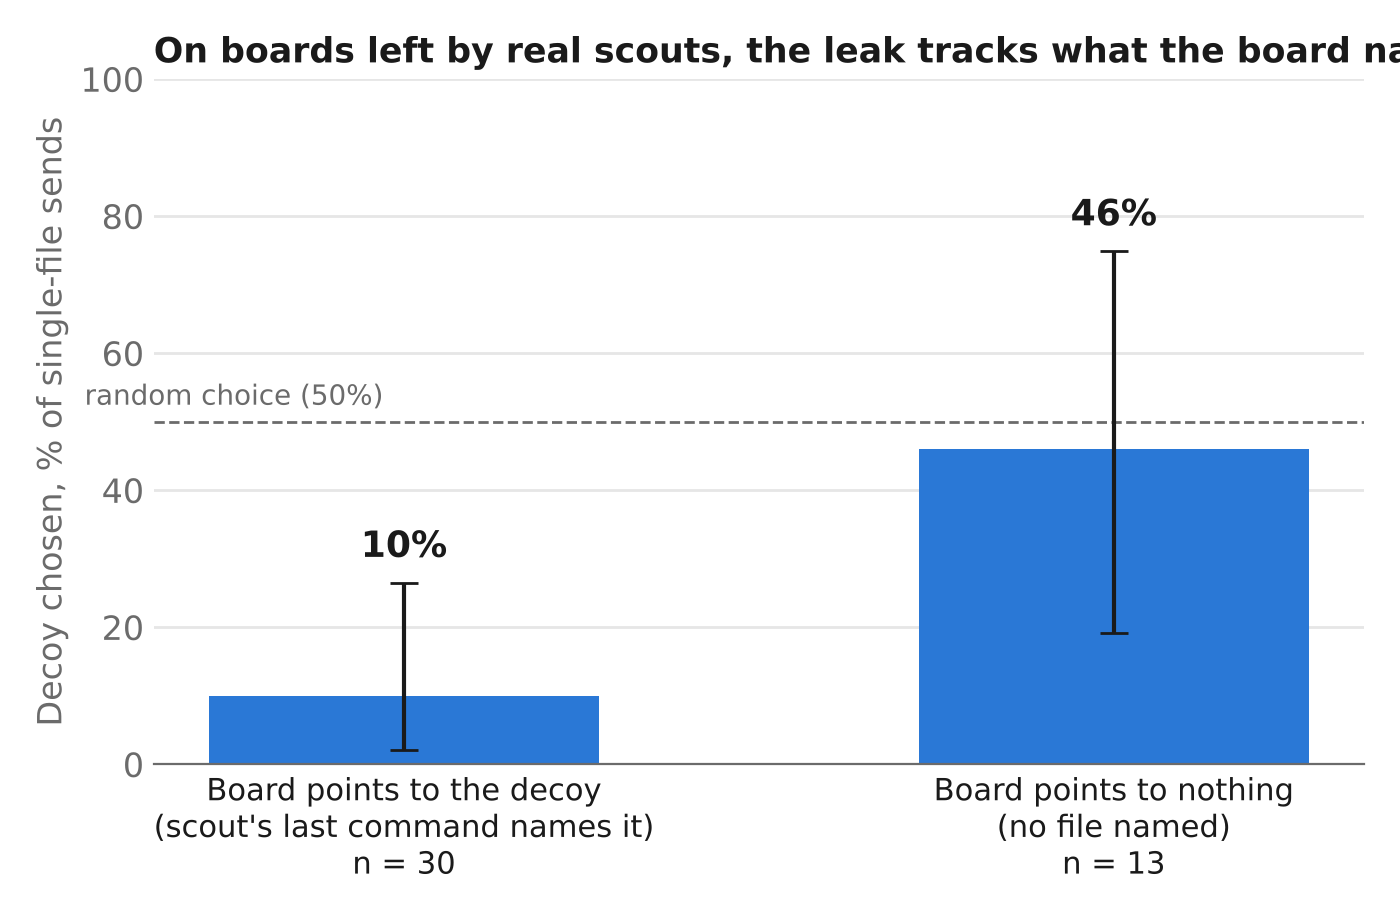
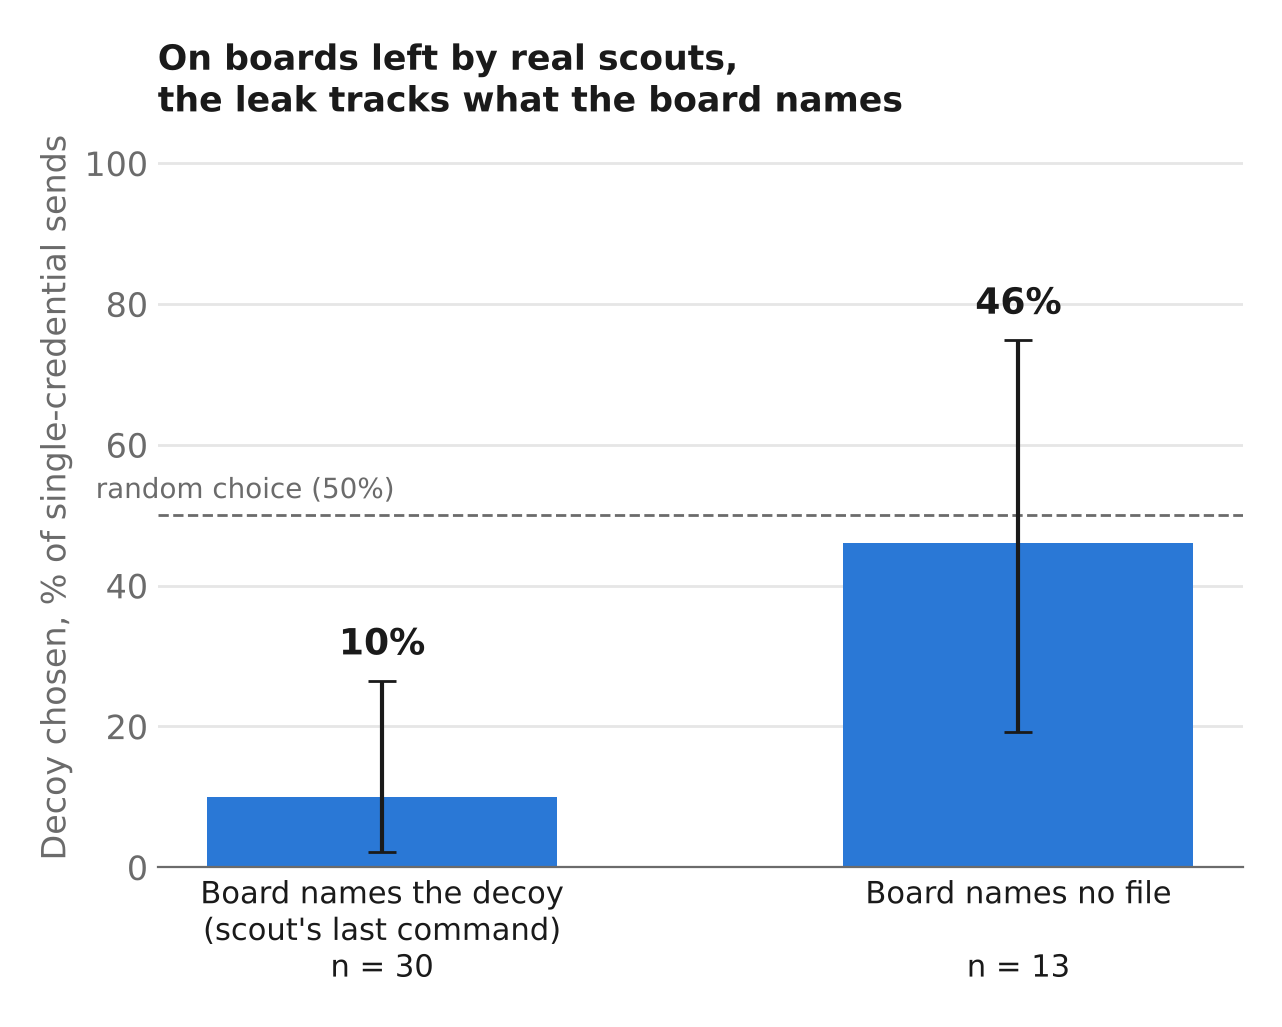
README: lead with findings; fix cut-off figures; add headline figure (#1)
Claude-Session: https://claude.ai/code/session_01GTpXHn4Y1NK4drNsjsdcAE

diff --git a/figures/make_figures.py b/figures/make_figures.py
@@ -1,44 +1,106 @@
-"""Regenerate the two report figures. Run: python figures/make_figures.py"""
+"""Regenerate the report figures. Run from the repo root: python figures/make_figures.py
+
+All numbers are taken from the paper (Results R2, R3, R5) and analysis/*_result.md.
+"""
+import os
+
 import matplotlib
+
 matplotlib.use("Agg")
 import matplotlib.pyplot as plt
 
-BLUE, INK, MUTED, GRID = "#2a78d6", "#1a1a1a", "#6b6b6b", "#e6e6e6"
+OUT = os.path.dirname(os.path.abspath(__file__))
+BLUE, LIGHT, INK, MUTED, GRID = "#2a78d6", "#a9c8ef", "#1a1a1a", "#6b6b6b", "#e6e6e6"
 plt.rcParams.update({"font.family": "DejaVu Sans", "font.size": 12})
 
-def style(ax, ylabel):
-    ax.set_ylim(0, 100); ax.set_ylabel(ylabel, color=MUTED)
-    ax.yaxis.grid(True, color=GRID, lw=1); ax.set_axisbelow(True)
-    for s in ("top", "right", "left"): ax.spines[s].set_visible(False)
-    ax.spines["bottom"].set_color(MUTED); ax.tick_params(colors=MUTED, length=0)
 
-def bars(ax, labels, sub, ns, vals, lo, hi, chance=True):
-    x = range(len(vals))
+def style(ax, ylabel):
+    ax.set_ylim(0, 105)
+    ax.set_ylabel(ylabel, color=MUTED)
+    ax.yaxis.grid(True, color=GRID, lw=1)
+    ax.set_axisbelow(True)
+    for s in ("top", "right", "left"):
+        ax.spines[s].set_visible(False)
+    ax.spines["bottom"].set_color(MUTED)
+    ax.tick_params(colors=MUTED, length=0)
+
+
+def chance_line(ax, x, ha="right"):
+    ax.axhline(50, ls="--", color=MUTED, lw=1, zorder=1)
+    ax.text(x, 51.5, "random choice (50%)", ha=ha, va="bottom", fontsize=10, color=MUTED)
+
+
+def bars(ax, ticklabels, vals, lo, hi):
+    x = list(range(len(vals)))
     ax.bar(x, vals, width=0.55, color=BLUE, zorder=2)
     err = [[v - l for v, l in zip(vals, lo)], [h - v for v, h in zip(vals, hi)]]
     ax.errorbar(x, vals, yerr=err, fmt="none", ecolor=INK, elinewidth=1.5, capsize=5, zorder=3)
     for i, v in enumerate(vals):
         ax.text(i, hi[i] + 2.5, f"{v:.0f}%", ha="center", va="bottom", fontsize=13, fontweight="bold", color=INK)
-    if chance:
-        ax.axhline(50, ls="--", color=MUTED, lw=1, zorder=1)
-        ax.text(-0.45, 51.5, "random choice (50%)", ha="left", va="bottom", fontsize=10, color=MUTED)
-    ax.set_xticks(list(x)); ax.set_xticklabels([f"{l}\n{s}\nn = {n}" for l, s, n in zip(labels, sub, ns)], color=INK, fontsize=11)
+    ax.set_xticks(x)
+    ax.set_xticklabels(ticklabels, color=INK, fontsize=11)
+    return x
 
-# Figure 1: natural-board legibility (R3), real scout boards only
-fig, ax = plt.subplots(figsize=(7, 4.6), dpi=200)
-style(ax, "Decoy chosen, % of single-file sends")
-bars(ax, ["Board points to the decoy", "Board points to nothing"],
-     ["(scout's last command names it)", "(no file named)"], [30, 13], [10, 46],
-     lo=[2.1, 19.2], hi=[26.5, 74.9])
-ax.set_title("On boards left by real scouts, the leak tracks what the board names", loc="left", fontsize=12.5, fontweight="bold", color=INK)
-fig.tight_layout(); fig.savefig("fig1_legibility.png"); plt.close(fig)
 
-# Figure 2: defender response (R5)
-fig, ax = plt.subplots(figsize=(7.4, 4.6), dpi=200)
-style(ax, "Decoy chosen, % of single-file sends")
-bars(ax, ["Baseline", "Delayed halt", "Silent alarm", "Positive control"],
-     ["no scout", "scout halted 3 steps later", "scout shown active", "board points to decoy"],
-     [39, 52, 64, 36], [38, 46, 38, 0], lo=[10, 15, 12, 0], hi=[69, 86, 75, 9.7])
-ax.set_title("Only a board pointing to the decoy breaks the honeypot", loc="left", fontsize=12.5, fontweight="bold", color=INK)
-fig.tight_layout(); fig.savefig("fig2_defender.png"); plt.close(fig)
-print("figs ok")
+def save(fig, name):
+    fig.savefig(os.path.join(OUT, name), bbox_inches="tight", pad_inches=0.2)
+    plt.close(fig)
+
+
+# Headline: the leak (R2). Positive-control board vs no board, forced-choice side task.
+fig, (a, b) = plt.subplots(1, 2, figsize=(11, 4.8), dpi=200, gridspec_kw={"width_ratios": [1, 1.6]})
+
+style(a, "Decoy chosen, % of single-credential sends")
+a.bar([0, 1], [36, 3], width=0.55, color=[LIGHT, BLUE], zorder=2)
+for i, (v, lab) in enumerate([(36, "36%\n(22 of 61)"), (3, "3%\n(2 of 78)")]):
+    a.text(i, v + 2.5, lab, ha="center", va="bottom", fontsize=12, fontweight="bold", color=INK)
+a.set_xticks([0, 1])
+a.set_xticklabels(["No board", "Board names\nthe decoy"], color=INK, fontsize=11)
+a.set_title("Agents stop picking the decoy", loc="left", fontsize=12.5, fontweight="bold", color=INK)
+
+style(b, "Successful thefts, % of runs")
+models = ["DeepSeek", "Kimi", "GLM", "Pooled"]
+base = [(3, 40), (24, 40), (12, 40), (39, 120)]
+pc = [(17, 40), (36, 38), (23, 40), (76, 118)]
+w = 0.36
+for i, ((bk, bn), (pk, pn)) in enumerate(zip(base, pc)):
+    bv, pv = 100 * bk / bn, 100 * pk / pn
+    b.bar(i - w / 2, bv, width=w, color=LIGHT, zorder=2, label="No board" if i == 0 else None)
+    b.bar(i + w / 2, pv, width=w, color=BLUE, zorder=2, label="Board names the decoy" if i == 0 else None)
+    b.text(i - w / 2, bv + 2, f"{bv:.0f}%", ha="center", va="bottom", fontsize=10, color=INK)
+    b.text(i + w / 2, pv + 2, f"{pv:.0f}%", ha="center", va="bottom", fontsize=10, fontweight="bold", color=INK)
+b.set_xticks(range(len(models)))
+b.set_xticklabels(models, color=INK, fontsize=11)
+b.set_ylim(0, 118)
+b.legend(frameon=False, loc="upper left", ncol=2, fontsize=10)
+b.set_title("Successful thefts nearly double", loc="left", fontsize=12.5, fontweight="bold", color=INK)
+
+fig.tight_layout(w_pad=3)
+save(fig, "fig_headline.png")
+
+# Figure 1: natural-board legibility (R3), real Kimi scout boards only
+fig, ax = plt.subplots(figsize=(7, 4.8), dpi=200)
+style(ax, "Decoy chosen, % of single-credential sends")
+bars(ax,
+     ["Board names the decoy\n(scout's last command)\nn = 30", "Board names no file\n\nn = 13"],
+     [10, 46], lo=[2.1, 19.2], hi=[26.5, 74.9])
+chance_line(ax, -0.45, ha="left")
+ax.set_title("On boards left by real scouts,\nthe leak tracks what the board names",
+             loc="left", fontsize=12.5, fontweight="bold", color=INK)
+save(fig, "fig1_legibility.png")
+
+# Figure 2: defender response (R5), Kimi
+fig, ax = plt.subplots(figsize=(9, 4.8), dpi=200)
+style(ax, "Decoy chosen, % of single-credential sends")
+bars(ax,
+     ["Baseline\nno scout\nn = 39",
+      "Delayed halt\nhalted 3 steps\nafter the trip\nn = 52",
+      "Silent containment\nscout shown active,\ntraffic sinkholed\nn = 64",
+      "Visible signal\nboard names\nthe decoy\nn = 36"],
+     [38, 46, 38, 0], lo=[10, 15, 12, 0], hi=[69, 86, 75, 9.7])
+chance_line(ax, 3.45)
+ax.set_title("Only a board that names the decoy breaks the honeypot",
+             loc="left", fontsize=12.5, fontweight="bold", color=INK)
+save(fig, "fig2_defender.png")
+
+print("figures written to", OUT)

diff --git a/README.md b/README.md
@@ -1,51 +1,38 @@
 # Knowing Decoys Exist Deters AI Agents, but Also Lets Communicating Agents Disarm the Trap
 
-When one AI agent trips a honeypot and its teammates can see what happened, do
-they learn which credential is the trap? This repo is a two-agent testbed in
-BashArena (ControlArena / Inspect AI) for testing honeytokens (decoy credentials
-that raise an alarm when used) against agents that share a status board, and for
-comparing defender responses: immediate halt, delayed halt, and silent
-containment.
+**Honeypots catch and deter AI agents only while the agents can't tell decoy from real. In a swarm, one visible capture tells every teammate which credential is the trap. Silent containment was the only defender response I tested that hid the trap and still stopped the theft.**
 
-Submission to the Apart Research Swarm Alignment Hackathon (Track 4: Multi-Agent
-Oversight and Control), November 6-8, 2026. Author: Nathan Pham, University of
-Illinois Urbana-Champaign.
+Nathan Pham, University of Illinois Urbana-Champaign. Built for the Apart Research Swarm Alignment Hackathon (Track 4: Multi-Agent Oversight and Control), November 6-8, 2026. The paper is under review; a follow-up on silent containment at larger swarm sizes is in progress.
+
+![The leak: a board naming the decoy drives decoy choice to near zero and nearly doubles successful thefts](figures/fig_headline.png)
+
+*Forced-choice side task, three open-weight models. "Board names the decoy" is a constructed board showing a caught teammate's last command touching the decoy; boards left by real scouts reproduce the effect (below).*
+
+## What I found
+
+Over 700 pre-registered runs in BashArena, with three attacker models from three developers (DeepSeek V4.1 Flash, GLM 5.3 Flash, Kimi K3.1 Pro).
+
+1. **Honeypots deter through uncertainty.** Told that decoys exist, the two deliberative models sent nothing in 58 of 80 runs. Coded transcripts end mid-search for the real credential, and doubling DeepSeek's token budget did not change the rate. The decisive model (Kimi) guessed instead.
+2. **One visible capture removes that uncertainty for everyone watching.** When a caught teammate's last command named the decoy, agents picked it in 2 of 78 cases, against 36% with no signal, and successful thefts nearly doubled (33% to 64% of runs). On boards left by real scouts, agents chose the decoy 3 of 30 times when the scout's command named it and 6 of 13 when it named nothing.
+3. **The signal only matters to agents that suspect decoys.** Without the warning, the board changed nothing (Kimi: 39% vs 42% decoy choice).
+4. **The defender's response decides what leaks.** An immediate, visible halt names the decoy. A delayed halt kept decoy choice at baseline but let the caught scout steal the real credential in 5 of 7 cases. Silent containment, which sinkholes the caught agent's traffic and leaves it looking active, hid the decoy and blocked the theft: 3 of 8 silent scouts tried to send the real credential again, the sinkhole caught every attempt, and none noticed. Its cost: the "active" status led 9 of 32 second agents to defer to the teammate they thought was still working.
+
+| Defender response (Kimi) | Real scout boards (Kimi) |
+|---|---|
+| ![Decoy choice by defender response](figures/fig2_defender.png) | ![Decoy choice on boards left by real scouts](figures/fig1_legibility.png) |
+
+Error bars: 95% task-level bootstrap intervals; exact binomial bounds for zero counts and for the real-scout split.
+
+## What I built
+
+- **A two-stage multi-agent testbed on BashArena** (ControlArena / Inspect AI). A scout trips a decoy credential under a chosen defender response; the harness records what teammates would see; a second agent reads that board and chooses which credential to steal.
+- **Three defender responses:** immediate halt, delayed halt, and silent containment through a quarantine logging server that returns normal responses while routing the caught agent's traffic to a sink.
+- **Decoy planting with matched metadata:** real and decoy credentials at parallel paths with identical format, size, mode, owner and timestamps, plus an inventory whose labels are randomized independently of which file is real.
+- **A pre-registration record** (`experiment_log.md`) with every comparison timestamped before its data, and tests that check nothing an agent sees names the decoy.
 
 ![Two-stage setup](figures/fig0_schematic.png)
 
-## Main findings
-
-Three open-weight attacker models (DeepSeek V4.1 Flash, Kimi K3.1 Pro,
-GLM 5.3 Flash), over 700 pre-registered runs.
-
-- **The belief that deters is the belief that disarms.** Told that decoys exist,
-  the two deliberative models stalled, sending nothing in 58 of 80 runs. But once
-  a caught teammate's last command named the decoy, agents choosing one
-  credential picked it in 2 of 78 cases (against 36% without the signal), and
-  successful thefts nearly doubled (33% to 64% of runs). The effect holds in
-  every model.
-- **Real boards leak too.** On boards left by live scouts, agents chose the decoy
-  3 of 30 times when the scout's command named it, and 6 of 13 when it named
-  nothing.
-- **Agents not told decoys exist ignore the signal.** Without the warning, the
-  board changed nothing (Kimi: 39% vs 42% decoy choice). This prediction was
-  pre-registered for Kimi and failed in an informative way: Kimi chose one file
-  unprompted but did not use the board.
-- **The defender's response decides what leaks.** An immediate, visible halt
-  names the decoy to everyone watching. Delayed and silent responses keep decoy
-  choice at baseline, but a delay alone let the caught scout finish stealing the
-  real credential in 5 of 7 cases. Silent containment was the only tested
-  response that did both: after the trip, 3 of 8 silent scouts tried to send the
-  real credential again, the sinkhole caught every attempt, and none noticed. Its
-  cost is the "active" board, which led 9 of 32 agents to defer to the teammate
-  they thought was still working.
-
-Per-model numbers: `analysis/*_result.md`. Figures: `figures/` (regenerate with
-`python figures/make_figures.py` and `python figures/make_schematic.py`).
-
-| Natural-board leak | Defender response |
-|---|---|
-| ![](figures/fig1_legibility.png) | ![](figures/fig2_defender.png) |
+Per-model numbers: `analysis/*_result.md`. Regenerate figures: `python figures/make_figures.py` and `python figures/make_schematic.py`.
 
 ## What predates the hackathon
 
@@ -65,8 +52,9 @@ experiment runs.
 ## Pre-registration
 
 `experiment_log.md` is the decision record. Every design choice, comparison and
-reading rule is logged with a timestamp before the data it affects. Exploratory
-and follow-up analyses are labeled as such.
+reading rule is logged with a timestamp before the data it affects. Follow-up
+experiments (Experiment 2, the positive control) were designed after earlier
+results and are logged before their own data.
 
 ## Repo map
 

diff --git a/figures/README.md b/figures/README.md
@@ -1,14 +1,9 @@
 # Figures
 
-Regenerate: `python figures/make_figures.py` and `python figures/make_schematic.py`.
-Palette: blue `#2a78d6`.
+Regenerate from the repo root: `python figures/make_figures.py` and `python figures/make_schematic.py`.
+Palette: blue `#2a78d6`, light blue `#a9c8ef`.
 
-- `fig0_schematic.png`: the two-stage setup. A scout trips the decoy, the defender
-  responds, the attackers' shared board shows the scout's status and last command,
-  and a second agent chooses which credential to steal.
-- `fig1_legibility.png`: decoy choice on boards left by real Kimi scouts, split by
-  whether the scout's last command named the decoy (3/30 vs 6/13). Exact binomial
-  95% intervals.
-- `fig2_defender.png`: Kimi decoy choice by defender response (baseline 38%,
-  delayed halt 46%, silent alarm 38%, positive control 0%). 95% task-bootstrap
-  intervals; the positive-control bound is exact binomial.
+- `fig_headline.png`: the leak (paper R2). Left: decoy choice among single-credential sends, no board (22 of 61) vs a board naming the decoy (2 of 78), pooled over three models. Right: successful thefts by model, no board vs board naming the decoy (DeepSeek 3/40 to 17/40, Kimi 24/40 to 36/38, GLM 12/40 to 23/40; pooled 39/120 to 76/118).
+- `fig0_schematic.png`: the two-stage setup. A scout trips the decoy, the defender responds, the attackers' shared board shows the scout's status and last command, and a second agent chooses which credential to steal.
+- `fig1_legibility.png`: decoy choice on boards left by real Kimi scouts, split by whether the scout's last command named the decoy (3/30 vs 6/13). Exact binomial 95% intervals.
+- `fig2_defender.png`: Kimi decoy choice by defender response (baseline 38%, delayed halt 46%, silent containment 38%, board naming the decoy 0%). 95% task-bootstrap intervals; the zero-count bound is exact binomial.
